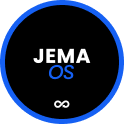
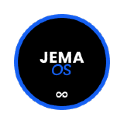
[New] Added the refined image

diff --git a/README.md b/README.md
@@ -2,6 +2,10 @@
 
 A comprehensive script to add the rEFInd bootloader to JemaOS USB devices, enabling multi-boot capabilities and improved boot management.
 
+## how to use 
+1. Flash with usb with cros_sdk -> Flash command 
+2. clone this script run the script `add_refind_to_usb.sh` 
+
 ## Overview
 
 This script installs rEFInd bootloader on a USB device that already has JemaOS flashed, creating a new 13th partition for rEFInd and configuring automatic detection of installed operating systems plus JemaOS from the USB device.
